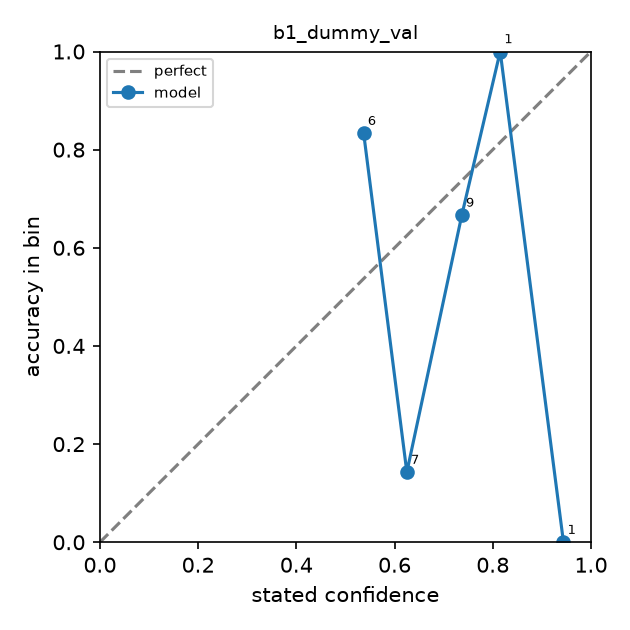
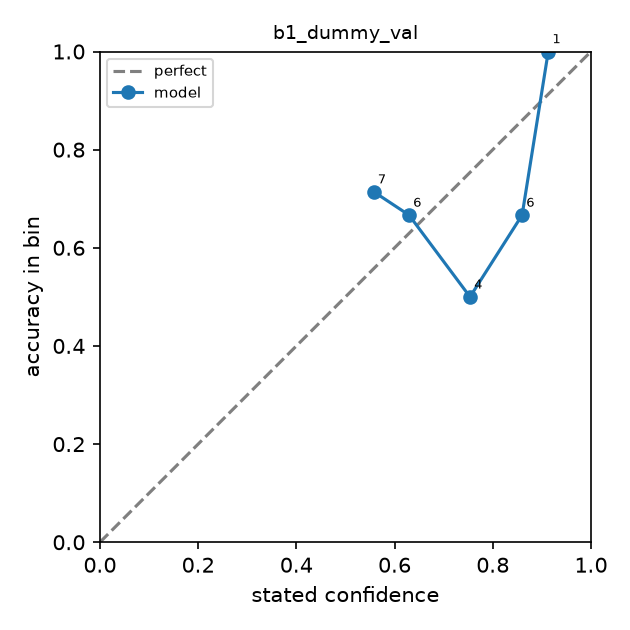
Update AgentVerify project with B2 result result.md and updated Readme.md

diff --git a/test_models2.py b/test_models2.py
@@ -1,0 +1,9 @@
+import os, json, urllib.request as u
+base = "https://generativelanguage.googleapis.com/v1beta/openai/chat/completions"
+for m in ["gemini-3-flash-preview", "gemini-3.1-flash-lite", "gemini-3.1-flash-lite-preview", "gemini-3.6-flash", "gemini-3.7-flash", "gemini-3.8-flash", "gemma-4-31b-it", "gemma-4-26b-a4b-it"]:
+    d = json.dumps({"model": m, "messages": [{"role": "user", "content": "say ok"}], "max_tokens": 20}).encode()
+    r = u.Request(base, d, {"Authorization": "Bearer " + os.environ["OPENAI_API_KEY"], "Content-Type": "application/json"})
+    try:
+        print(m, "->", json.load(u.urlopen(r))["choices"][0]["message"]["content"])
+    except Exception as e:
+        print(m, "-> FAIL", e)

diff --git a/test_models.py b/test_models.py
@@ -1,0 +1,9 @@
+import os, json, urllib.request as u
+base = "https://generativelanguage.googleapis.com/v1beta/openai/chat/completions"
+for m in ["gemini-2.5-flash", "gemini-3.5-flash", "gemini-3.5-flash-lite", "gemini-flash-latest"]:
+    d = json.dumps({"model": m, "messages": [{"role": "user", "content": "say ok"}], "max_tokens": 20}).encode()
+    r = u.Request(base, d, {"Authorization": "Bearer " + os.environ["OPENAI_API_KEY"], "Content-Type": "application/json"})
+    try:
+        print(m, "->", json.load(u.urlopen(r))["choices"][0]["message"]["content"])
+    except Exception as e:
+        print(m, "-> FAIL", e)

diff --git a/test_native.py b/test_native.py
@@ -1,0 +1,8 @@
+import os, json, urllib.request as u
+url = "https://generativelanguage.googleapis.com/v1beta/models/gemini-flash-latest:generateContent"
+d = json.dumps({"contents": [{"parts": [{"text": "Explain how AI works in a few words"}]}]}).encode()
+r = u.Request(url, d, {"Content-Type": "application/json", "X-goog-api-key": os.environ["OPENAI_API_KEY"]})
+try:
+    print(json.load(u.urlopen(r))["candidates"][0]["content"]["parts"][0]["text"])
+except Exception as e:
+    print("FAIL", e, getattr(e, "read", lambda: b"")().decode()[:300])

diff --git a/src/agentverify/config.py b/src/agentverify/config.py
@@ -1,7 +1,9 @@
-"""Tiny env-based config. Copy .env.example to .env and export it."""
+
+"""Tiny env-based config. Copy .env.example to .env."""
 from __future__ import annotations
 
 import os
+from dotenv import load_dotenv
 from dataclasses import dataclass
 
 
@@ -16,6 +18,7 @@ class LLMConfig:
 
     @classmethod
     def from_env(cls) -> "LLMConfig":
+        load_dotenv()
         return cls(
             model=os.getenv("AV_MODEL", "gpt-4o-mini"),
             base_url=os.getenv("OPENAI_BASE_URL") or None,

diff --git a/README.md b/README.md
@@ -1,18 +1,31 @@
-# AgentVerify (Phase 1: technical foundation and baselines)
+# AgentVerify (Phase 2: calibrated, evidence-grounded multi-agent fake-news detection)
 
 Agentic multimodal fake news detection from text and images.
-Course: Agentic AI
-Phase 1 delivers the data pipeline, shared contracts, model provider layer, evidence-tool
+Course: AI4015 Agentic AI. Project code G1-12. Supervisor: Muhammad Sajjad.
+
+Phase 1 delivered the data pipeline, shared contracts, model provider layer, evidence-tool
 interface, perturbation utilities, evaluation code (accuracy, macro-F1, ECE, Brier, risk-coverage,
-cost) and two non-agentic baselines. The agents themselves (text, image, evidence, decision) come in Phase 2.
+cost) and two non-agentic baselines. Phase 2 builds the four agents (text, image, evidence, decision),
+the calibration layer, the robustness suite and the ablation runs on top of that foundation.
 
 ![architecture](docs/architecture.png)
 
 | Baseline | What it is |
 |---|---|
-| B1 | Frozen CLIP embeddings + logistic regression (trained on 2,000 posts) |
+| B1 | Frozen CLIP embeddings + logistic regression |
 | B2 | One vision-language-model call per post, no tools, no agents |
-| B3 | Base paper (T2Agent) / MMD-Agent, compared through published numbers on the same MMFakeBench val set |
+| B3 | Base paper (T2Agent) / MMD-Agent, compared through published numbers on the MMFakeBench val set (not re-run by us) |
+
+## Changes since Phase 1
+
+| Item | Phase 1 proposal | Now | Reason |
+|---|---|---|---|
+| B2 backbone | Gemini 2.5 Flash | `gemini-3.5-flash-lite` via Google AI Studio (OpenAI-compatible endpoint) | TODO: state the real reason (availability / free-tier quota) |
+| B2 evaluation set | 1,000 official val posts | 60-post stratified val sample (seed 42); full-val run pending | free-tier rate limits (one 429 and one 503 seen) |
+| B1 protocol | trained on D_train (2,000 posts from test) | Phase 1 numbers use 700 val / 300 val (val only; test set not yet downloaded) | test set not downloaded in Phase 1; **to be re-run on D_train with no overlap with D_val** |
+| Work division | "Worked locally" | see Section 7 | TA feedback |
+
+The base paper (T2Agent) and Gaps 1-3 are unchanged.
 
 ## 1. Setup
 ```bash
@@ -23,6 +36,15 @@ cp .env.example .env            # then put your key in .env and export it
 ```
 Any OpenAI-compatible endpoint works. For a free local run use Ollama and set
 `OPENAI_BASE_URL=http://localhost:11434/v1`, `OPENAI_API_KEY=ollama`, `AV_MODEL=qwen2.5vl:7b`.
+
+To reproduce the reported B2 run, use the Gemini OpenAI-compatible endpoint
+(never commit your key; set it only in your shell or in `.env`, which is git-ignored):
+```powershell
+$env:OPENAI_API_KEY="YOUR_KEY"
+$env:OPENAI_BASE_URL="https://generativelanguage.googleapis.com/v1beta/openai/"
+$env:AV_MODEL="gemini-3.5-flash-lite"
+```
+Note: B2 sends val images and captions to an external service (Google AI Studio free tier).
 
 ## 2. Get the data (MMFakeBench, gated)
 1. Open https://huggingface.co/datasets/liuxuannan/MMFakeBench, log in, accept the usage terms.
@@ -35,21 +57,65 @@ python scripts/make_splits.py   --root data/raw/MMFakeBench     # writes id list
 If `inspect_dataset.py` reports an unknown `fake_cls` string, extend `normalize_source()` in
 `src/agentverify/data/mmfakebench.py`.
 
+Planned splits (stratified, seed 42, stored as id lists only):
+
+| Split | Size | Use |
+|---|---|---|
+| D_val | 1,000 (official val) | main results, comparison with T2Agent and MIRAGE |
+| D_train | 2,000 from test | fit B1 only |
+| D_cal | 1,000 from test | fit the calibrator (Gap 1) |
+| D_test | 2,000 from test | final held-out evaluation |
+| D_rob | 300 from test | perturbation runs (Gap 2) |
+
+Phase 1 baseline runs used only the validation set (test set not yet downloaded). See "Changes since Phase 1".
+
 ## 3. Verify the install (no key, no data needed)
 ```bash
-pytest -q
+pytest -q                       # 15 passed
 python scripts/smoke_test.py
 ```
 Smoke-test numbers use a mock model and are **not** results.
 
 ## 4. Run the baselines
 ```bash
-python scripts/run_b2_single_vlm.py --root data/raw/MMFakeBench --split val --limit 50  --out results/b2_val50.jsonl   # cheap trial
-python scripts/run_b2_single_vlm.py --root data/raw/MMFakeBench --split val             --out results/b2_val.jsonl
-python scripts/run_b1_clip.py       --root data/raw/MMFakeBench --out results/b1_val.jsonl
+python scripts/run_b2_single_vlm.py --root data/raw/MMFakeBench --split val --sample 4  --out results/b2_test.jsonl    # quick diagnostic (checks parse_fail and API errors)
+python scripts/run_b2_single_vlm.py --root data/raw/MMFakeBench --split val --sample 60 --out results/b2_val60.jsonl   # reported run
+python scripts/run_b1_clip_valonly.py --root data/raw/MMFakeBench                                                      # reported B1 run (700 train / 300 eval, val only)
 ```
+<!-- TODO: confirm the exact B1 arguments/output path, and whether run_b1_clip.py is still used. -->
 Each run writes `*.jsonl` (one RunRecord per post), `*_metrics.json` and `*_reliability.png`.
 Parse failures are counted as wrong and reported as `parse_fail_rate`.
+A B2 run is only valid if `parse_fail_rate` is close to 0. Look for `[llm error]` lines in the
+console output (404 = wrong model id, 401/403 = bad key, 429 = rate limit, 503 = temporary overload).
+A 4-post diagnostic run is not a result and must not be reported.
+
+## 4b. Baseline results (MMFakeBench official val)
+
+| Method | n | Binary acc | Binary macro-F1 | 4-way acc | 4-way macro-F1 | ECE (15 bins) | Brier | Parse-fail |
+|---|---|---|---|---|---|---|---|---|
+| B1 CLIP + LR | 300 (held-out val) | 0.817 | 0.785 (95% CI 0.731-0.832) | 0.737 | 0.735 | 0.103 (CI 0.075-0.144) | 0.144 | 0.000 |
+| B2 Gemini 3.5 Flash-Lite, single call | 60 (val sample) | 0.900 | 0.888 (95% CI 0.795-0.964) | 0.733 | 0.717 | 0.060 (CI 0.021-0.140) | 0.083 | 0.000 |
+| B3 T2Agent (GPT-4o-mini), **taken from the paper, not run by us** | 1,000 | n/a | 0.631 | n/a | n/a | not reported | not reported | n/a |
+
+B1 (300 posts), B2 (60 posts) and B3 (1,000 posts) were evaluated on different subsets, so the rows are
+**not directly comparable**. T2Agent uses a different backbone (GPT-4o-mini) than ours; this is a limitation
+of the comparison. B2's n=60 gives wide confidence intervals, so treat it as a baseline reference only.
+Full detail and the B2 run history (including one invalid run that was discarded) are in `results/Result.md`.
+
+**B2 detail.** Binary recall real / fake 0.944 / 0.881, fake precision 0.974. 4-way recall:
+real 0.944, text_false 0.667, image_false 0.833, mismatch 0.556. AURC 0.026, selective accuracy
+at 80% coverage 0.938 (full coverage 0.900). Mean confidence 0.960 vs accuracy 0.900 (over-confident).
+Cost per post: about 1,287 prompt and 74 completion tokens, 3.83 s, 1 LLM call, 0 search calls.
+One 503 and one 429 occurred during the valid runs; parse_fail stayed at 0.000.
+
+**B1 detail.** Binary recall real / fake 0.722 / 0.857, fake precision 0.878. 4-way recall:
+real 0.722, text_false 0.900, image_false 0.733, mismatch 0.589. AURC 0.077, selective accuracy
+at 80% coverage 0.867 (full 0.817). Mean confidence 0.713 vs accuracy 0.817 (under-confident).
+
+**Observations (hypotheses for Phase 2, not conclusions).**
+- Mismatch is the weakest 4-way class for both baselines, which is where evidence and caption-image checks should help.
+- B1 is under-confident and B2 over-confident, so raw confidence is unreliable in both directions (motivates Gap 1). B2's ECE comes from 60 posts and is not evidence that B2 is better calibrated than B1.
+- B1 is trained on part of val, so its score may reflect dataset-construction cues. This is untested.
 
 ## 5. Layout
 ```
@@ -64,9 +130,44 @@ src/agentverify/
   eval/             metrics.py (acc, F1, ECE, Brier, AURC, bootstrap CI), report.py
 scripts/ tests/ docs/ results/
 ```
+<!-- TODO: add the Phase 2 modules (agents/, orchestrator, calibration layer, ablation switches) once they exist. -->
 
-## 6. Status
-- [x] pipeline, contracts, provider layer, evidence tool, perturbations, metrics, tests
-- [x] B1, B2 implemented; offline smoke test passes
-- [ ] initial B1/B2 numbers on MMFakeBench val (run section 4, paste into `results/RESULTS.md`)
-- [ ] Phase 2: text/image/evidence/decision agents, calibration layer, robustness + ablation runs
+## 6. Gap-resolution table (filled in with E4 results)
+
+| Gap | Method / component | Metric | Base paper result | Our result | Addressed? |
+|---|---|---|---|---|---|
+| Gap 1: calibration | Calibration layer + abstention | ECE, Brier, AURC, accuracy at 80% coverage | not reported (T2Agent) | pending | pending |
+| Gap 2: robustness | Seeded label-preserving perturbation suite | delta macro-F1, delta ECE, label-flip rate at severity 3 | not reported | pending | pending |
+| Gap 3: agent contribution and cost | Leave-one-agent-out switches + cost logger | per-class recall, macro-F1, USD per 1k posts | ablates search/tools only; about 5x cost | pending | pending |
+
+## 6b. Experiments
+
+| ID | What | Command | Output | Status |
+|---|---|---|---|---|
+| E1 | B1 baseline | `python scripts/run_b1_clip_valonly.py` | `results/` | done on val only; re-run on D_train |
+| E2 | Base paper | published numbers only (not re-implemented) | n/a | taken from paper |
+| E3 | Full agentic system | TODO | TODO | pending |
+| E4 | Gap-wise experiments | TODO | TODO | pending |
+| E5 | Ablation (one component removed at a time) | TODO | TODO | pending |
+| E6 | Cost, latency, reliability | TODO | TODO | pending |
+
+## 6c. Status
+- [x] pipeline, contracts, provider layer, evidence tool, perturbations, metrics, tests (15 pass)
+- [x] B1 and B2 implemented; offline smoke test passes
+- [x] B1 on 300 held-out val posts (val-only protocol)
+- [x] B2 on a 60-post stratified val sample (Gemini 3.5 Flash-Lite, parse_fail = 0.000)
+- [ ] B2 on the full 1,000-post val set
+- [ ] B1 re-run on D_train / D_val with no overlap
+- [ ] hand-check a sample of perturbations to confirm labels are preserved (for example crops that remove the manipulated region)
+- [ ] text, image, evidence and decision agents, calibration layer, robustness and ablation runs
+- [ ] T2Agent comparison on a small GPT-4o-mini subset
+
+## 7. Team responsibilities
+
+| Member | Roll no. | Responsibilities |
+|---|---|---|
+| Dayyan Mustafa | 23i-0702 | TODO |
+| Muhammad Adeel | 23i-0739 | TODO |
+| Abdul Hadi | 23i-0707 | TODO |
+
+Each member commits their own work from their own GitHub account.

diff --git a/results/RESULTS.md b/results/RESULTS.md
@@ -1,12 +1,13 @@
 # Phase 1 baseline results (MMFakeBench, official validation set)
 
-Only numbers copied from real terminal output / metrics files belong in this file. A cell stays `not run` until it is.
+Only numbers copied from real terminal output / metrics files belong in this file.
 
 ## Status
 - Data pipeline: verified on the 1,000-post official val set (`inspect_dataset.py`: 1000 items, 0 missing images; 300 real / 300 text_false / 100 image_false / 300 mismatch).
 - Tests: `pytest -q` and `scripts/smoke_test.py` pass with the offline mock model (mock outputs are NOT results).
 - B1 (CLIP + logistic regression): RUN on real data (below).
-- B2 (single VLM): first attempt (Gemini 2.5 Flash, 60-post stratified sample) FAILED: parse_fail_rate = 1.000, i.e. no reply could be parsed, so its accuracy/F1 (0.300 / 0.231) only reflect the default "real, 0.5 confidence" fallback and are NOT a valid result. Cause being diagnosed (API error output now printed by `llm.py`). Row stays `not run` until a run with parse_fail near 0 completes.
+- B2 (single VLM): RUN on real data with Gemini 3.5 Flash-Lite, 60-post stratified val sample, parse_fail_rate = 0.000 (below). One API rate-limit error (429) occurred during the run.The sample is small, so confidence intervals are wide.
+- B3: published figure from the base paper only (not run by us).
 
 ## Setup actually used
 | Item | Value |
@@ -14,16 +15,17 @@ Only numbers copied from real terminal output / metrics files belong in this fil
 | Data | MMFakeBench val only (646 MB download); test set not downloaded in Phase 1 |
 | B1 protocol | 700 val posts for training, 300 held-out val posts for evaluation, stratified by 4-way label, seed 42 (`scripts/run_b1_clip_valonly.py`) |
 | B1 features | frozen CLIP ViT-B/32 (openai/clip-vit-base-patch32): image, text, product, absolute difference, cosine; logistic regression, class-balanced |
-| B2 model / endpoint | Gemini 2.5 Flash via Google AI Studio (OpenAI-compatible endpoint); first attempt invalid, see Status |
+| B2 model / endpoint | `gemini-3.5-flash-lite` via Google AI Studio (OpenAI-compatible endpoint), one VLM call per post, no search, no agents |
+| B2 protocol | random class-balanced (stratified) sample of 60 official val posts, seed 42 (`scripts/run_b2_single_vlm.py --sample 60`) |
 
 ## Results
 | Method | n | Binary acc | Binary macro-F1 | 4-way acc | 4-way macro-F1 | ECE (15 bins) | Brier | Parse-fail |
 |---|---|---|---|---|---|---|---|---|
 | B1 CLIP + LR | 300 (held-out val) | 0.817 | 0.785 (95% CI 0.731-0.832) | 0.737 | 0.735 | 0.103 (95% CI 0.075-0.144) | 0.144 | 0.0 |
-| B2 single VLM | not run (first attempt invalid, parse_fail 1.0) | | | | | | | |
+| B2 Gemini 3.5 Flash-Lite, single VLM call | 60 (val sample) | 0.900 | 0.888 (95% CI 0.795-0.964) | 0.733 | 0.717 | 0.060 (95% CI 0.021-0.140) | 0.083 | 0.000 |
 | B3 T2Agent (published, GPT-4o-mini) | 1000 | n/a | 0.631 | n/a | n/a | not reported | not reported | n/a |
 
-B3 is the published figure from the base paper, not a run of ours. B1 was evaluated on a 300-post subset of val and B3 on all 1,000, so the numbers are not directly comparable. T2Agent's 0.631 is its reported macro-F1 on MMFakeBench; it is shown as a reference point only.
+B3 is the published figure from the base paper, not a run of ours. B1 (300 posts) and B2 (60 posts) were evaluated on different subsets of val, and B3 on all 1,000, so the three rows are not directly comparable. B2's n=60 gives wide confidence intervals, so treat it as a baseline reference, not a precise estimate. T2Agent's 0.631 is its reported macro-F1 on MMFakeBench; it is shown as a reference point only.
 
 ### B1 detail
 | Metric | Value |
@@ -38,11 +40,37 @@ B3 is the published figure from the base paper, not a run of ours. B1 was evalua
 | Selective accuracy at 80% coverage | 0.867 (full-coverage accuracy 0.817) |
 | Mean confidence | 0.713 (accuracy 0.817, so B1 is under-confident on this subset) |
 
+### B2 detail
+
+| Metric | Value |
+|---|---|
+| Binary recall, real / fake | 0.944 / 0.881 |
+| Fake precision | 0.974 |
+| Binary macro-F1 95% CI | 0.795-0.964 |
+| 4-way recall: real | 0.944 |
+| 4-way recall: text_false | 0.667 |
+| 4-way recall: image_false | 0.833 |
+| 4-way recall: mismatch | 0.556 |
+| AURC | 0.026 |
+| ECE 95% CI | 0.021-0.140 |
+| Selective accuracy at 80% coverage | 0.938 (full-coverage accuracy 0.900) |
+| Mean confidence | 0.960 (binary accuracy 0.900, so B2 is over-confident on this sample) |
+| Prompt / completion tokens per post | 1287 / 74 |
+| Latency per post | 3.83 s |
+| LLM calls / search calls per post | 1.0 / 0.0 |
+### B2 run history
+- Diagnostic run, n=4 (`results/b2_test.jsonl`): parse_fail 0.000. Used only to check that the endpoint works; not reported as a result.
+- First attempt, n=60: INVALID. parse_fail_rate = 1.000, so every reply failed to parse and the metrics only reflected the default "real, 0.5 confidence" fallback (accuracy 0.300, macro-F1 0.231). Not used. The cause was not identified; after the error logging was added to `llm.py`, the same endpoint and model id produced valid output.
+- Second attempt, n=60: VALID, reported above.
+- During the valid run, one request (post 58) returned a transient API 503 ("model is currently experiencing high demand"); parse_fail_rate stayed at 0.000.
+- Latest rerun, n=60: VALID, Gemini 3.5 Flash-Lite. One API 429 rate-limit/quota error was logged during execution. Final parse_fail_rate = 0.000, and all 60 samples are represented in the metrics. The run completed successfully, but the rate-limit event is documented.
+
 ## Observations (to be tested in Phase 2, not conclusions)
 - A trained CLIP classifier scores well on this subset. Because it is trained on part of the same val set, its strength may come from surface cues of how MMFakeBench was built (e.g. text style, image source) rather than checking facts. We have not tested this; it is a reason to also use the test-derived splits and the perturbation suite in Phase 2.
-- Mismatch is the weakest class (recall 0.589), which is where evidence and caption-image consistency checks should matter.
-- Confidence is not well matched to accuracy (ECE 0.103), which motivates Gap 1.
+- Mismatch is the weakest 4-way class for both baselines (recall 0.589 for B1 and 0.444 for B2), which is where evidence and caption-image consistency checks should matter.
+- B1 is under-confident (mean confidence 0.713 vs accuracy 0.817, ECE 0.103) and B2 is over-confident (mean confidence 0.960 vs accuracy 0.900, ECE 0.060). Calibration is not reliable in either direction, which motivates Gap 1. B2's ECE is from only 60 posts (95% CI 0.014-0.138), so it is not evidence that B2 is better calibrated than B1.
 
 ## Notes
 - The full D_train / D_cal / D_test protocol from the test set is applied in Phase 2.
-- Confidence for B1 is the maximum class probability; B2 will use the model's verbalised confidence.
+- Confidence for B1 is the maximum class probability; B2 uses the model's verbalised confidence.
+- B2 was run through a hosted API (Google AI Studio free tier), so val images and captions were sent to an external service.
